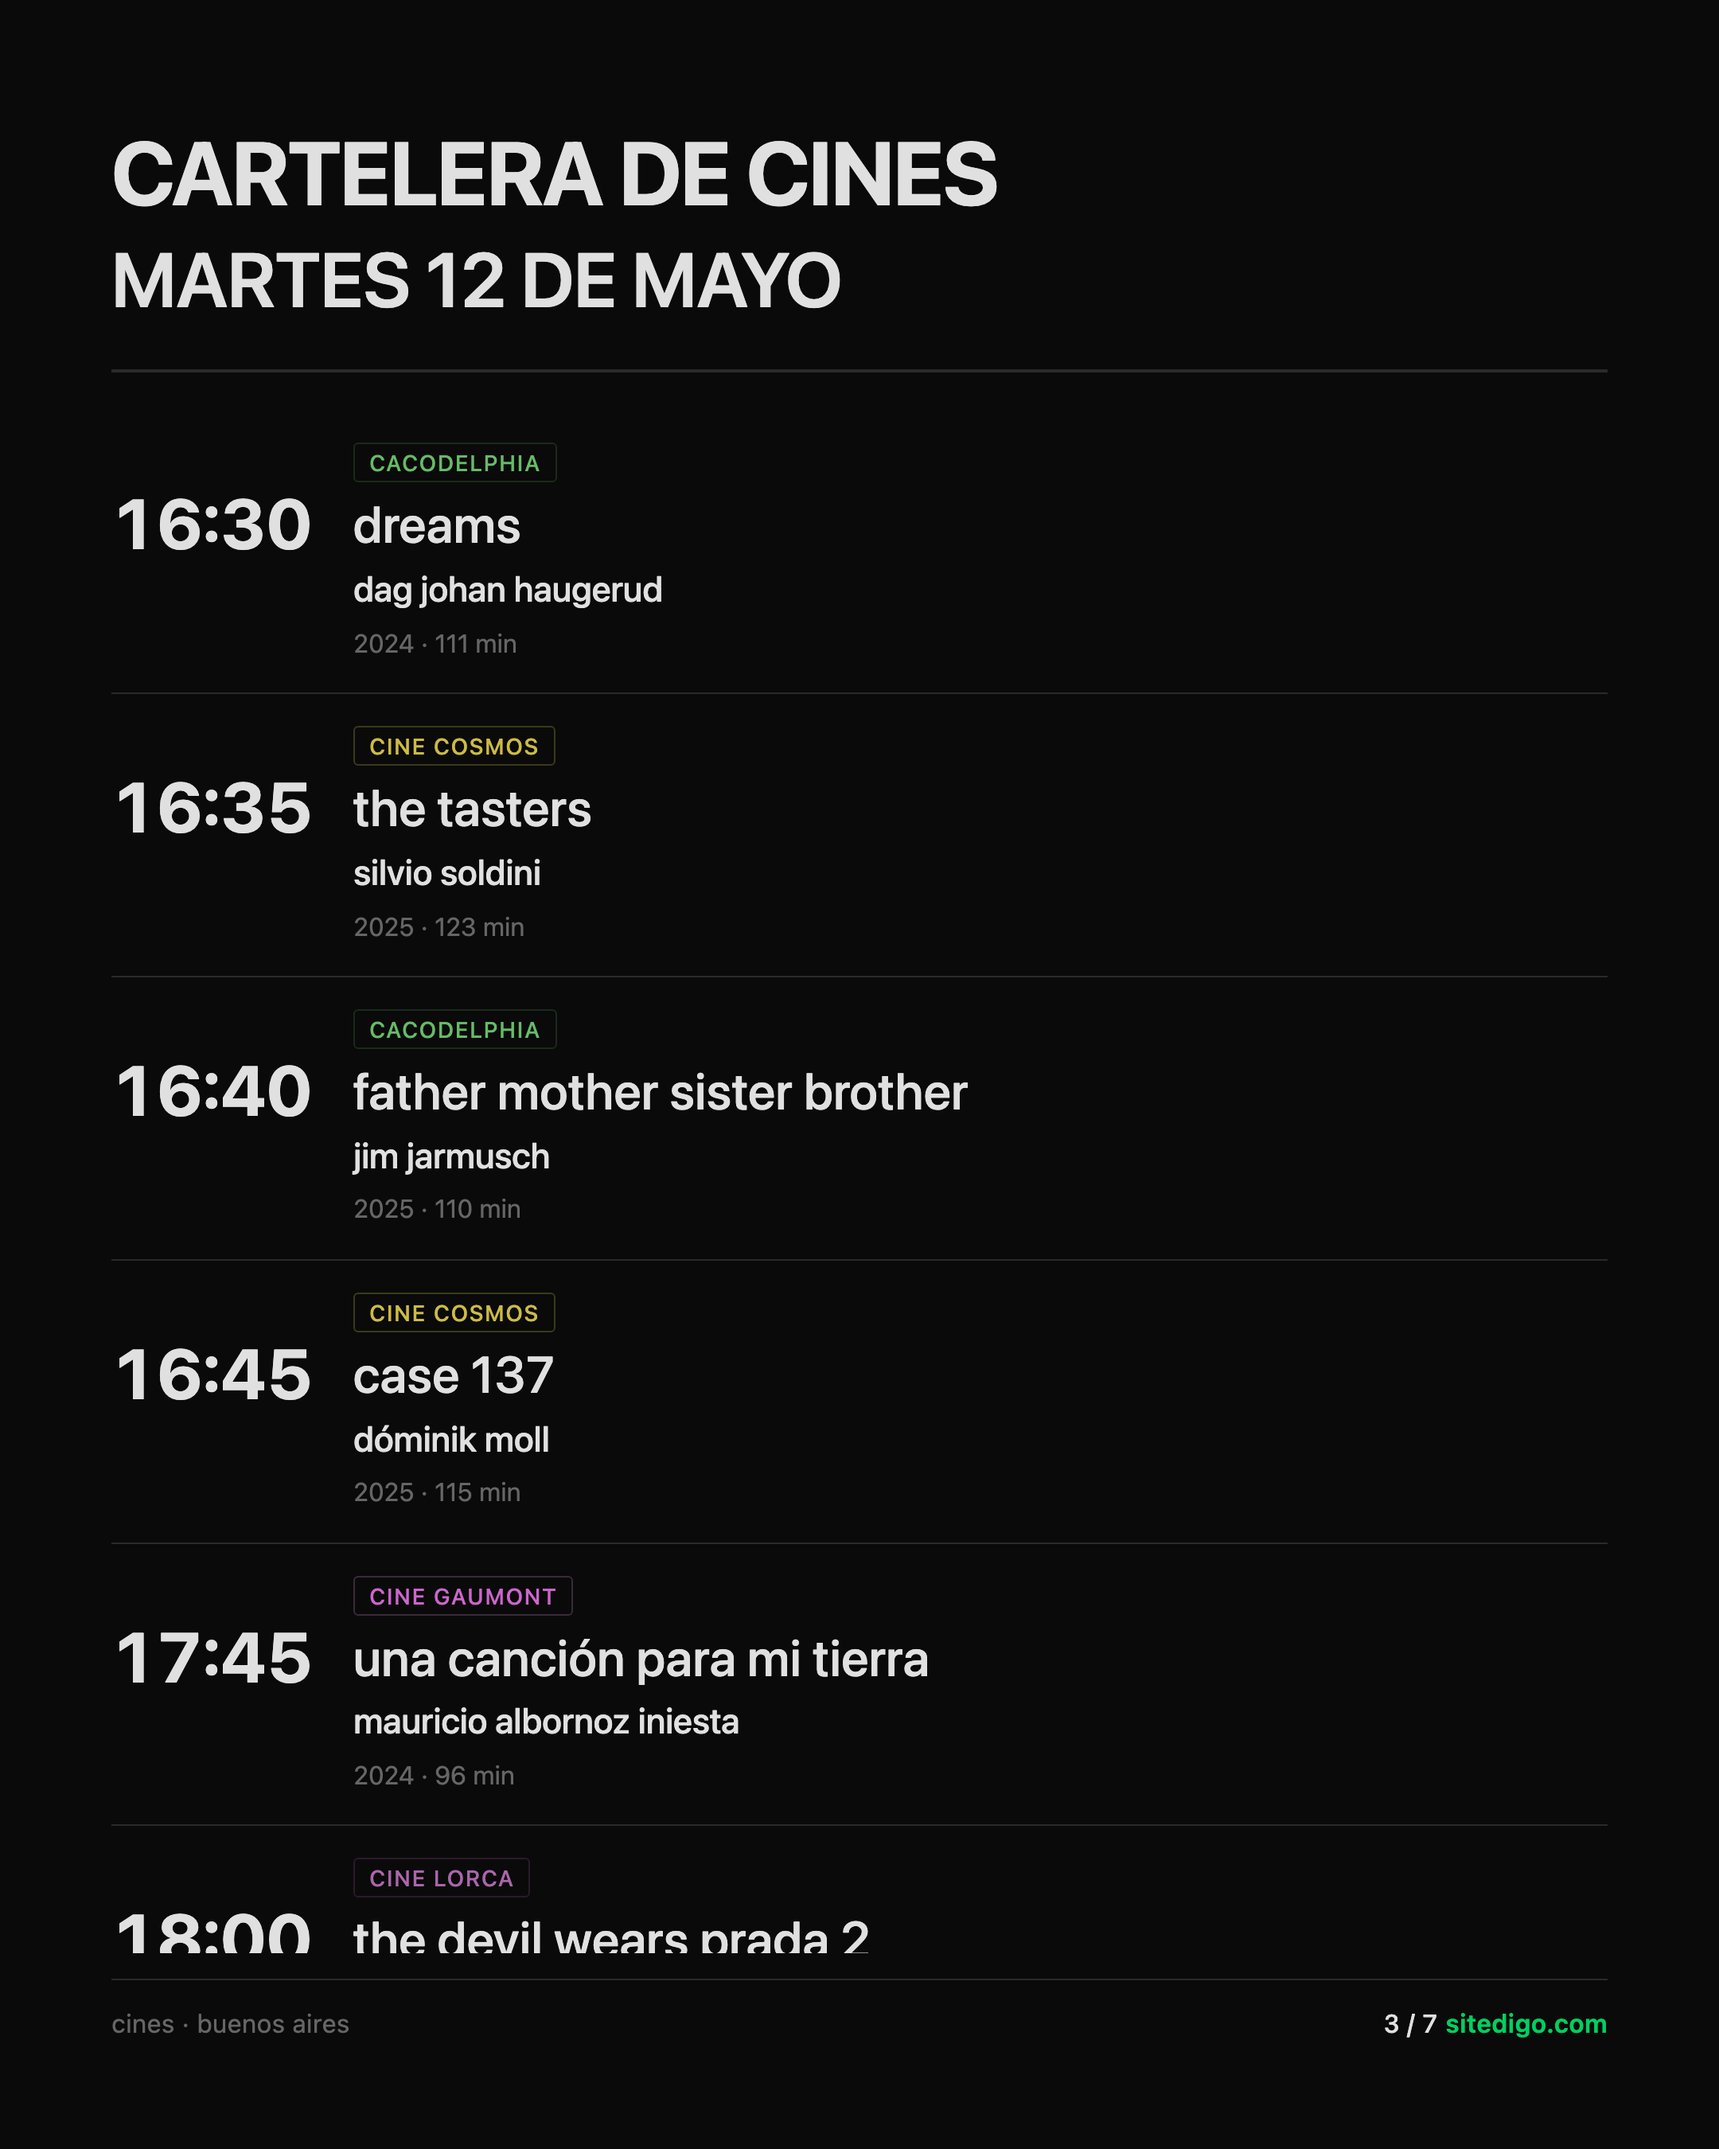
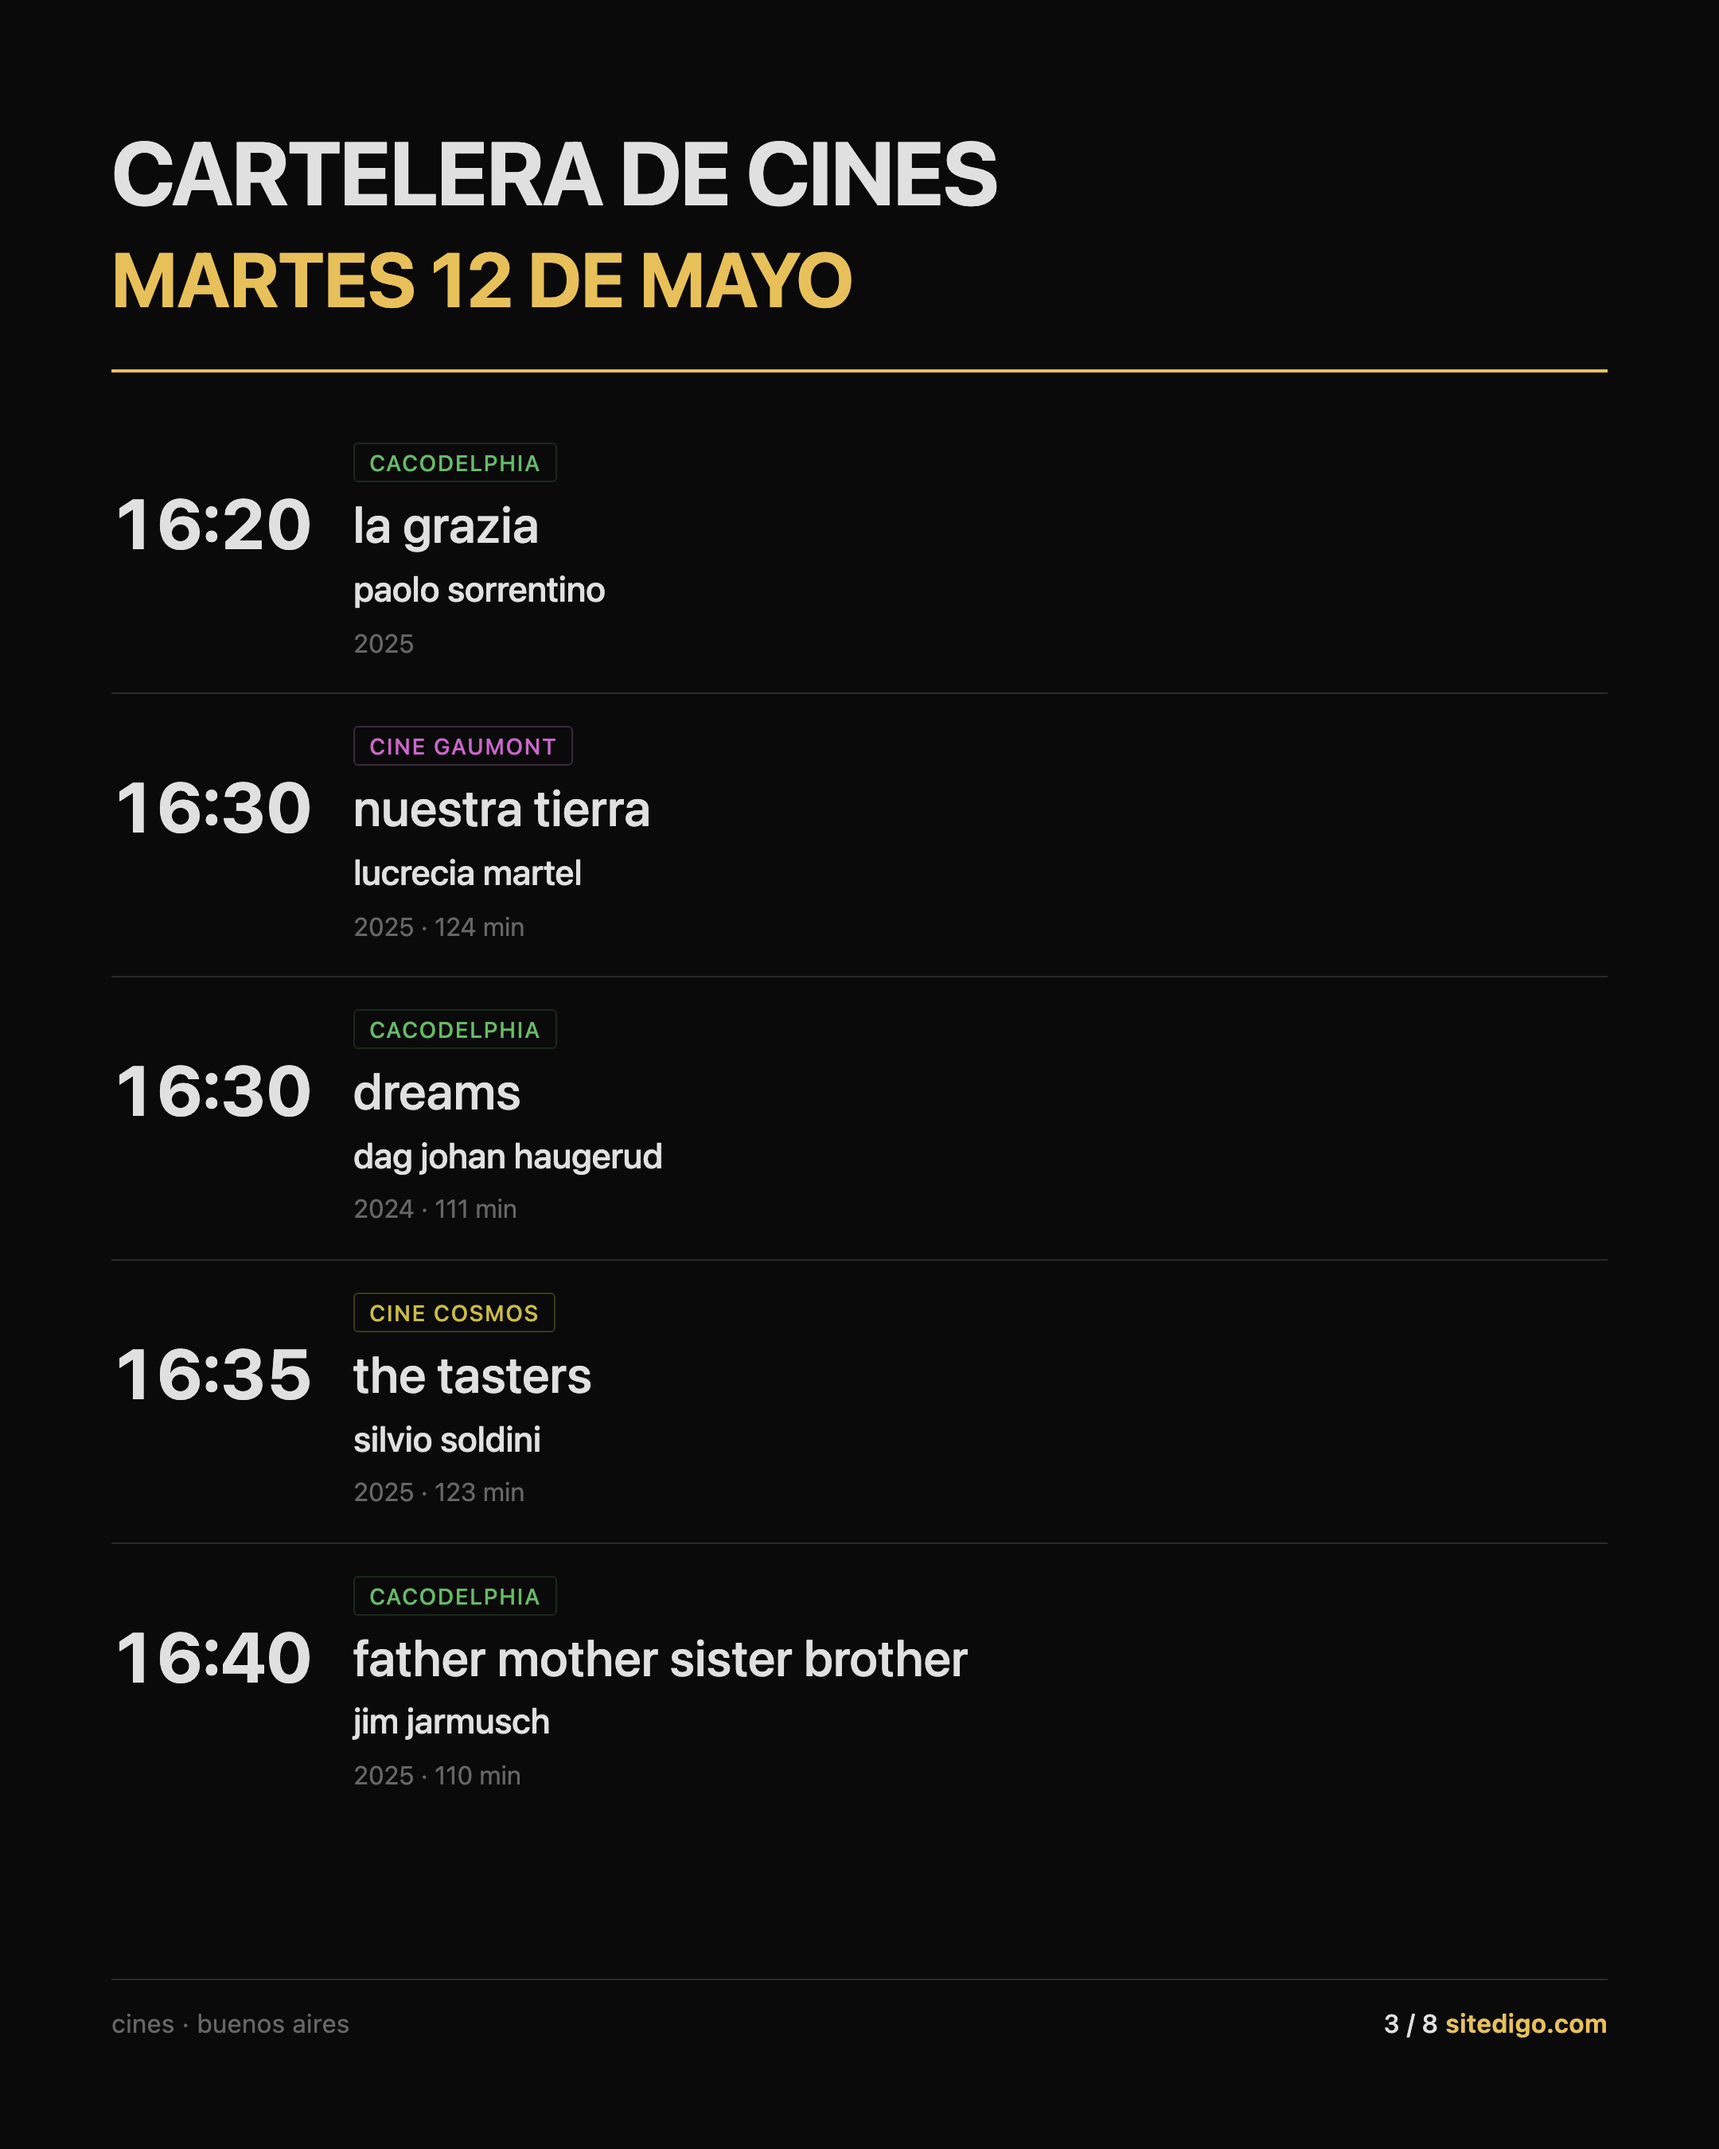
feat(ig): restore per-day accent color + lower films-per-slide

diff --git a/instagram.html b/instagram.html
@@ -60,7 +60,7 @@
 
   .post-header {
     display: flex; flex-direction: column; gap: 8px;
-    padding-bottom: 32px; border-bottom: 2px solid var(--border);
+    padding-bottom: 32px; border-bottom: 2px solid var(--accent);
     margin-bottom: 24px;
   }
   .post-brand {
@@ -69,7 +69,7 @@
     text-transform: uppercase;
   }
   .post-date {
-    font-size: 48px; font-weight: 600; color: var(--text);
+    font-size: 48px; font-weight: 700; color: var(--accent);
     letter-spacing: -0.01em; line-height: 1.05;
     margin-top: 6px;
     text-transform: uppercase;
@@ -283,11 +283,21 @@ window.cartelera = {
 // Heurística: cuántas pelis entran por slide según el formato.
 // Conservador para que entren limpias incluso con director + año + ciclo.
 function filmsPerSlide(format) {
-  if (format === 'square') return 5;
-  if (format === 'portrait') return 6;
-  if (format === 'story') return 8;
-  return 6;
+  if (format === 'square') return 4;
+  if (format === 'portrait') return 5;
+  if (format === 'story') return 9;
+  return 5;
 }
+
+const DAY_ACCENT = [
+  '#e8805a', // domingo
+  '#5a9ee8', // lunes
+  '#e8c05a', // martes
+  '#a87ae8', // miércoles
+  '#5ae8a0', // jueves
+  '#e87aa8', // viernes
+  '#5ae8d8', // sábado
+];
 
 function getFilteredRows() {
   const date = document.getElementById('date').value;
@@ -314,6 +324,7 @@ function renderSlide(slideNum) {
     const dayName = DAYS_ES[dt.getDay()];
     const monthName = MONTHS_ES[m - 1];
     document.getElementById('post-date').textContent = `${dayName} ${d} de ${monthName}`.toLowerCase();
+    document.documentElement.style.setProperty('--accent', DAY_ACCENT[dt.getDay()]);
   } else {
     document.getElementById('post-date').textContent = '—';
   }
